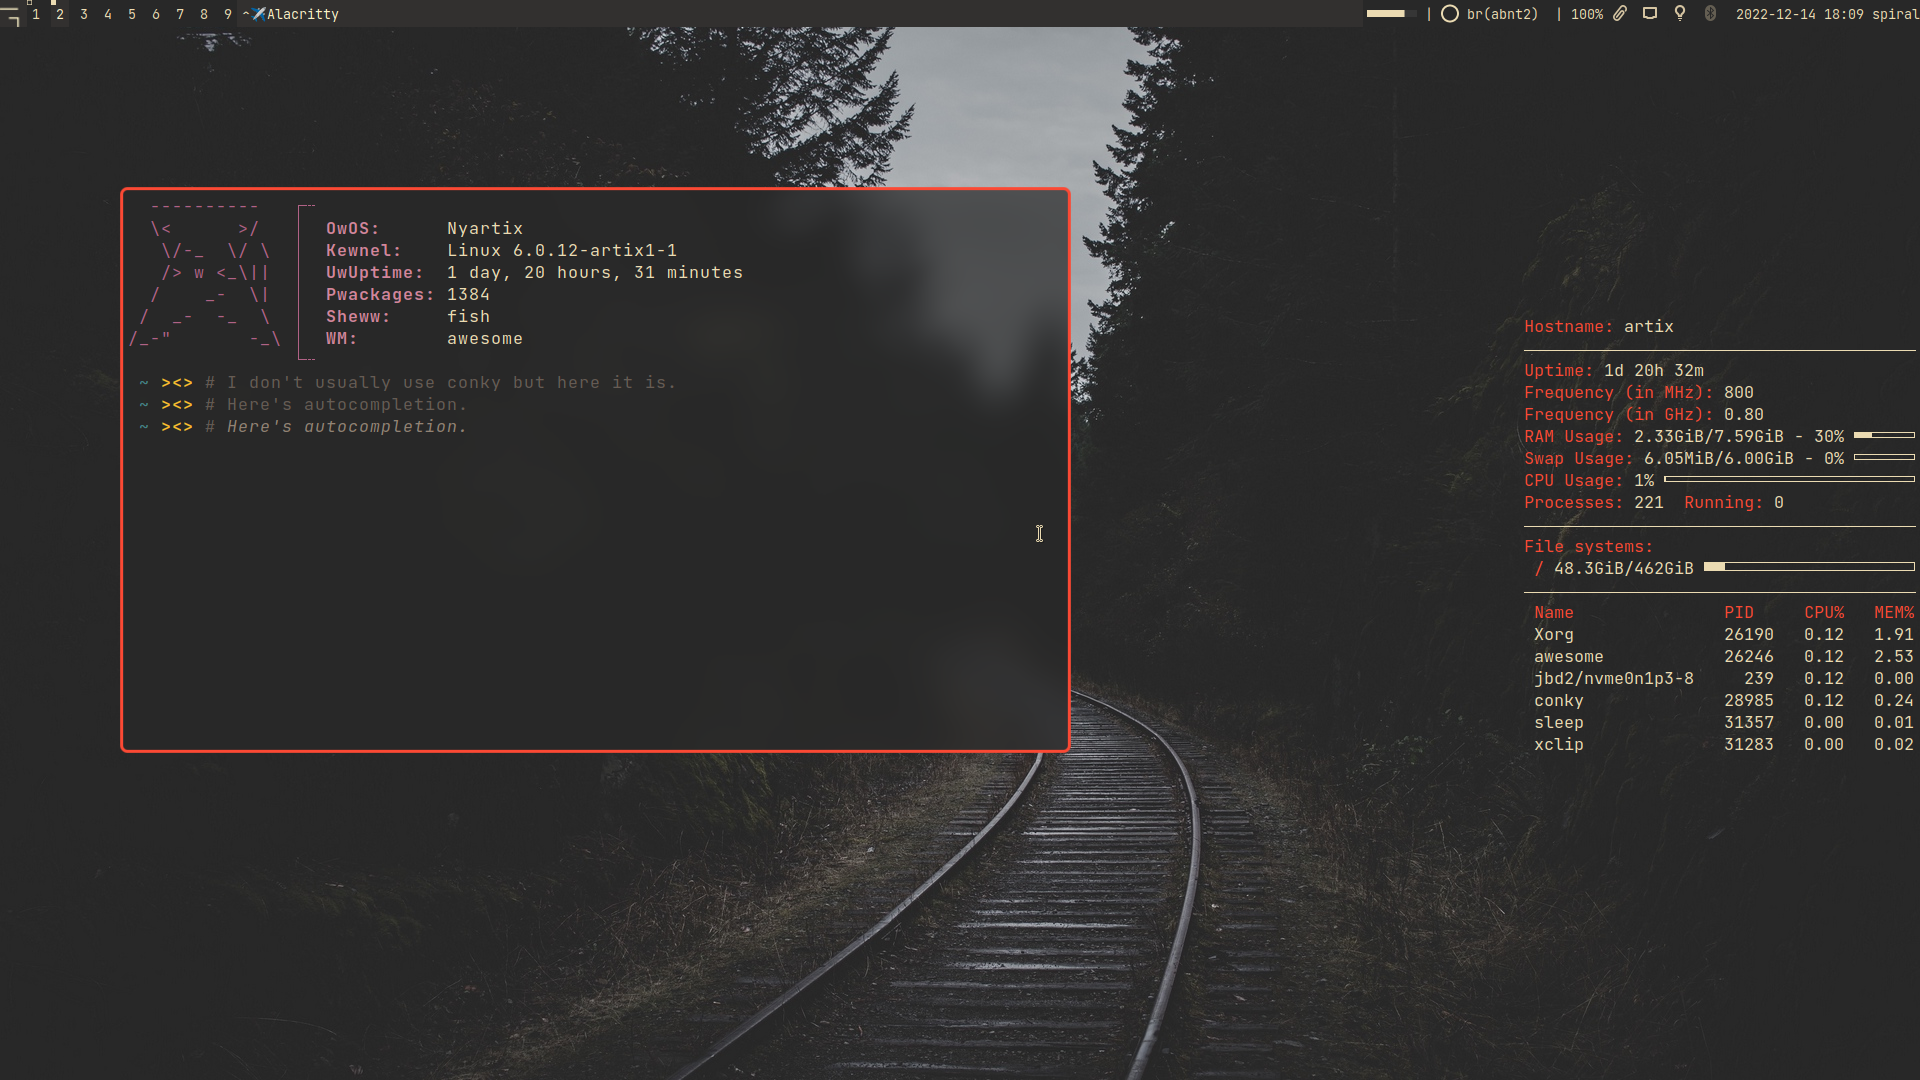
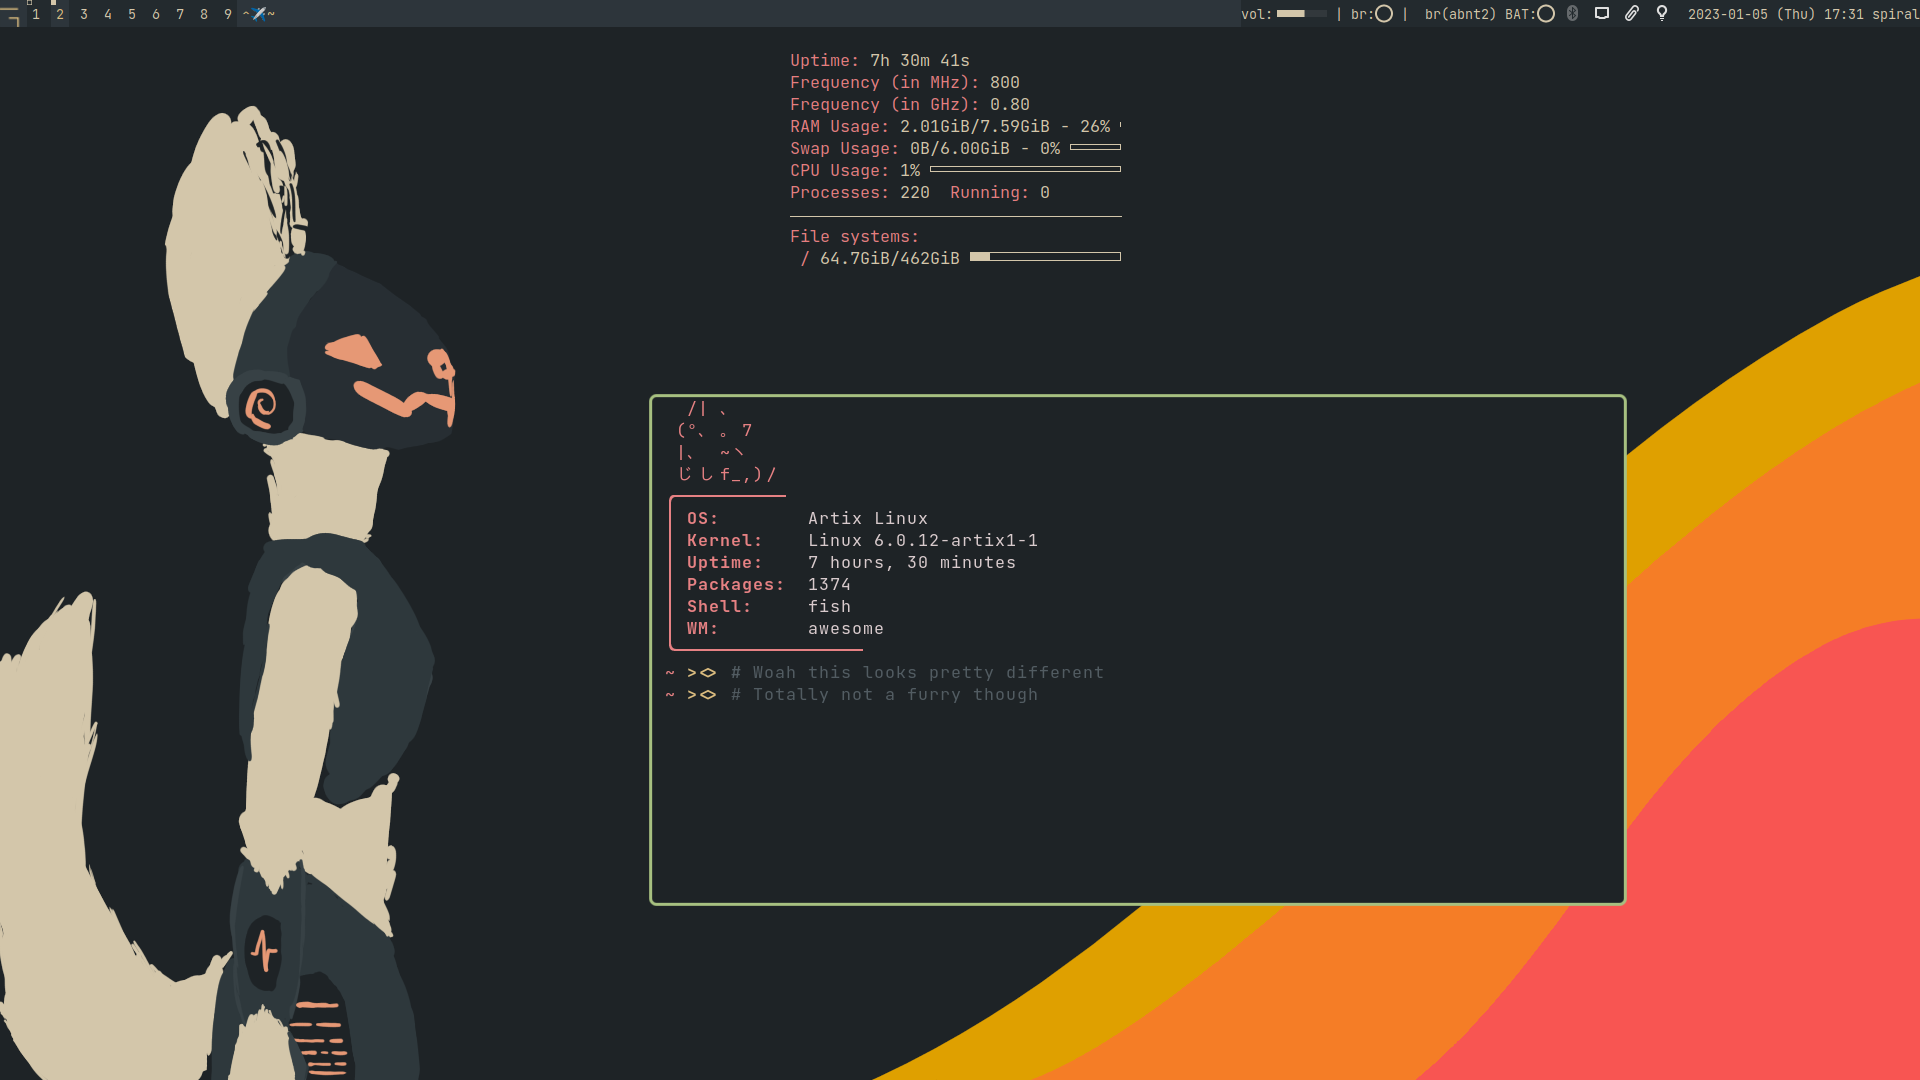
Huge changes, including wallpaper I drew.

diff --git a/HOME/.config/dwm/config.h b/HOME/.config/dwm/config.h
@@ -164,6 +164,7 @@ static const Rule rules[] = {
 	RULE(.class = "Gimp", .tags = 1 << 4)
 	RULE(.class = "Firefox", .tags = 1 << 7)
 	RULE(.class = "Alacritty", .isterminal = 1)
+	RULE(.class = "kitty", .isterminal = 1)
 	RULE(.class = "st", .isterminal = 1)
 	RULE(.title = "Event Tester", .noswallow = 1)
 };
@@ -250,7 +251,7 @@ static const char *dmenucmd[] = {
 	"-sf", selfgcolor,
 	NULL
 };
-static const char *termcmd[]  = { "alacritty", NULL };
+static const char *termcmd[]  = { "kitty", NULL };
 static const char *browser[]  = { "librewolf", NULL};
 static const char *filemngr[] = { "thunar", NULL };
 static const char *scsh[]     = { "sh", "-c", "maim -s -u | xclip -selection clipboard -t image/png", NULL};

diff --git a/HOME/.config/qtile/config.py b/HOME/.config/qtile/config.py
@@ -29,7 +29,7 @@ FULL_SCREENSHOT = "sh -c 'maim | xclip -selection clipboard -t image/png'"
 DMENU = "dmenu_run"
 ROFI_RUN = "rofi -show run -show-icons"
 SCREENSHOT = "sh -c 'maim -s -u | xclip -selection clipboard -t image/png'"
-TERM = "alacritty"
+TERM = "kitty"
 
 # > Control Commands
 RAISE_VOL = "pamixer -i5"
@@ -208,7 +208,7 @@ screens = [
             # border_width=[2, 0, 2, 0],  # Draw top and bottom borders
             # border_color=["ff00ff", "000000", "ff00ff", "000000"]  # Borders are magenta
         ),
-        wallpaper = '~/Pictures/Backgrounds/wallpaper.png',
+        wallpaper = '~/.config/wallpaper.png',
         wallpaper_mode = 'fill',
     ),
 ]
